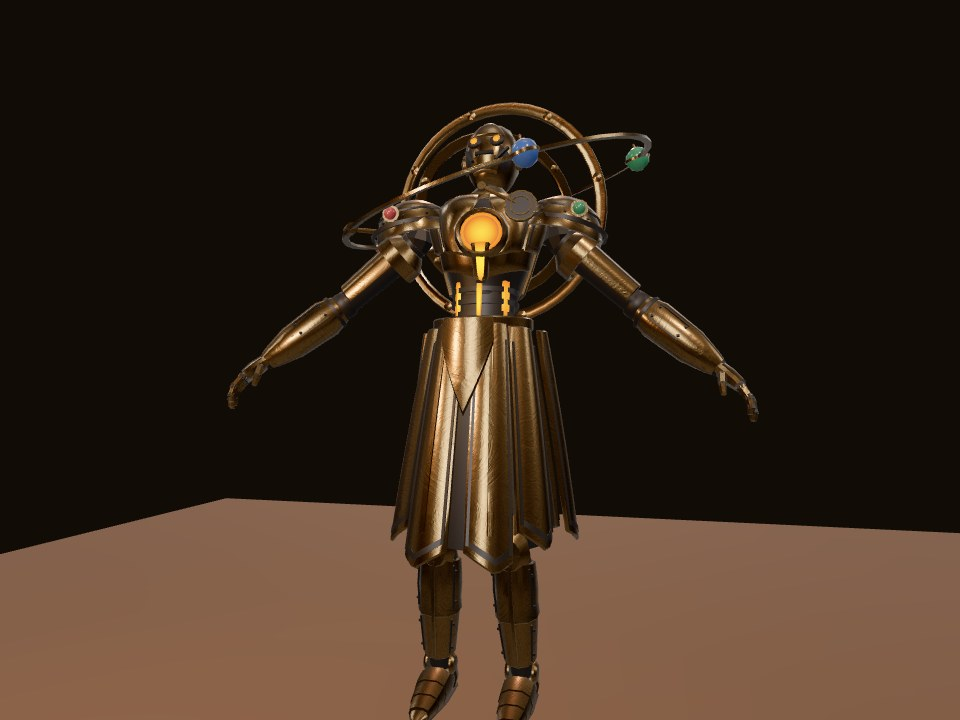
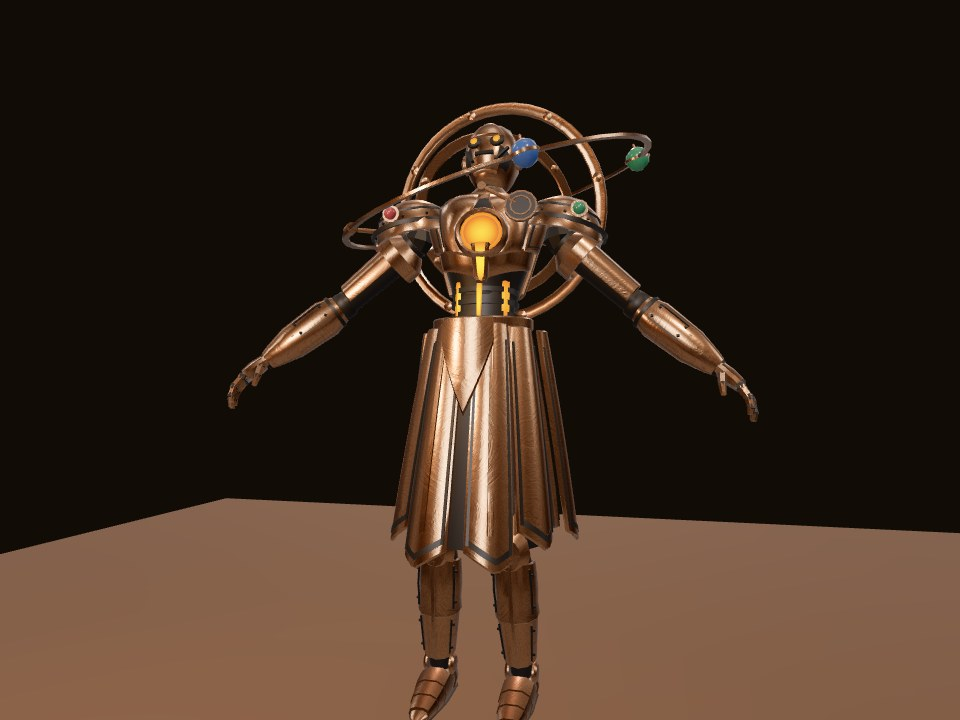
Re-aim the Warden tint warm and keep brightness under the freeze rime
Warden brass tint becomes [0.8, 0.55, 0.75] (body median 101,66,44 against the concept's 101,68,49), and tints now apply to factor-only slots by cloning the GLB material. The freeze rime is luminance-preserving: base lerps toward an ice hue scaled to its own luma, so dark slots stay dark and cool instead of turning silver. Re-recorded staging shots and hashes.

Changed region(s): [[0.2188, 0.1222, 0.7812, 1.0]]

diff --git a/src/enemies/enemy-asset.ts b/src/enemies/enemy-asset.ts
@@ -53,9 +53,9 @@ export interface EnemyMaterialSlot {
   tileMeters?: number;
   normalScale?: number;
   /**
-   * Linear-RGB multiplier (each component 0..1) on the bound clone of the shared set's `color`, so
-   * one enemy can pull the shared brass toward its concept without touching the set other enemies
-   * and the rooms share. Absent: the set's colour unchanged.
+   * Linear-RGB multiplier (each component 0..1) on a bound clone's `color`: the shared set's
+   * material for a set slot, the GLB's own factor material for a factor-only slot. The shared set
+   * and the GLB source are never mutated. Absent: the colour unchanged.
    */
   tint?: [number, number, number];
 }
@@ -135,9 +135,31 @@ function cullSphere(manifest: EnemyManifest): THREE.Sphere {
   return new THREE.Sphere(new THREE.Vector3(0, maxY / 2, 0), reach * 1.15);
 }
 
-/** Pale rime tint the plates take on while frozen, and how far toward it they move. */
-const RIME = new THREE.Color('#cfd8dc');
+/**
+ * Ice hue the plates take on while frozen, and how far toward it they move. Each material moves
+ * toward the rime hue at its own luminance, so a frozen plate cools without lifting: a fixed pale
+ * target would turn dark gunmetal silver. The hue is a strong ice blue: a near-grey rime lifts green
+ * at fixed luminance and pushes brass toward yellow.
+ */
+const RIME = new THREE.Color('#aab7ff');
 const RIME_MIX = 0.22;
+const LUMA = [0.2126, 0.7152, 0.0722] as const;
+const luma = (c: THREE.Color): number => c.r * LUMA[0] + c.g * LUMA[1] + c.b * LUMA[2];
+/** The rime hue at unit luminance, its chroma (distance from grey) scaled by RIME_CHROMA. */
+const RIME_CHROMA = 2.3;
+const RIME_UNIT = new THREE.Color().setRGB(
+  ...(RIME.toArray().map((c) => 1 + RIME_CHROMA * (c / luma(RIME) - 1)) as [
+    number,
+    number,
+    number,
+  ]),
+  THREE.LinearSRGBColorSpace,
+);
+
+/** The frozen colour of `base`: a {@link RIME_MIX} step toward the rime hue at `base`'s own luminance. */
+export function rimeColor(base: THREE.Color, out = new THREE.Color()): THREE.Color {
+  return out.copy(base).lerp(RIME_UNIT.clone().multiplyScalar(luma(base)), RIME_MIX);
+}
 const RIME_GLOW = 0.3;
 const HIT_FLASH = 2.5;
 const FLASH_DECAY = 6;
@@ -237,14 +259,20 @@ export async function parseEnemyAsset(
     if (cached) return cached;
     const slot = manifest.materialSlots[source.name];
     const shared = slot?.set ? set?.materials.get(slot.set) : undefined;
+    const tint = slot?.tint
+      ? new THREE.Color().setRGB(...slot.tint, THREE.LinearSRGBColorSpace)
+      : null;
     let material: THREE.Material = source;
     if (shared) {
       const clone = shared.clone();
       const s = slot?.normalScale ?? 1;
       clone.normalScale.set(s, s);
-      if (slot?.tint)
-        clone.color.multiply(new THREE.Color().setRGB(...slot.tint, THREE.LinearSRGBColorSpace));
+      if (tint) clone.color.multiply(tint);
       clone.name = source.name;
+      material = clone;
+    } else if (tint && source instanceof THREE.MeshStandardMaterial) {
+      const clone = source.clone();
+      clone.color.multiply(tint);
       material = clone;
     }
     bound.set(source, material);
@@ -678,8 +706,8 @@ export class EnemyActor {
     this.frozenFlag = on;
     for (const m of this.materials) {
       if (m.glow) continue;
-      m.material.color.copy(m.color);
-      if (on) m.material.color.lerp(RIME, RIME_MIX);
+      if (on) rimeColor(m.color, m.material.color);
+      else m.material.color.copy(m.color);
     }
     this.applyGlow();
   }

diff --git a/tests/enemy-asset-loader.test.ts b/tests/enemy-asset-loader.test.ts
@@ -9,6 +9,7 @@ import {
   loadEnemyAssets,
   parseEnemyAsset,
   parseEnemyManifest,
+  rimeColor,
 } from '../src/enemies/enemy-asset.ts';
 import type { PbrSet } from '../src/world/materials.ts';
 
@@ -221,6 +222,57 @@ describe('per-slot tint on the shared brass sets', () => {
     expectColour(slotColour(plain.template, 'brass-polished'), SHARED);
     tinted.dispose();
     plain.dispose();
+  });
+
+  it('tints a factor-only slot on a clone of the GLB material, leaving the source untouched', async () => {
+    const raw = JSON.parse(sentryManifest);
+    raw.materialSlots.gunmetal.tint = [0.5, 0.25, 1];
+    const tinted = await parseEnemyAsset(bytes(), parseEnemyManifest(raw, 'cog-sentry'), null);
+    const plain = await parseEnemyAsset(bytes(), sentryWith(), null);
+    const base = slotColour(plain.template, 'gunmetal');
+    expect(base.r + base.g + base.b).toBeGreaterThan(0);
+    const want = base.clone().multiply(linear(0.5, 0.25, 1));
+    expectColour(slotColour(tinted.template, 'gunmetal'), want);
+    // A second parse of the same bytes gets the untinted factor: nothing shared was mutated.
+    const again = await parseEnemyAsset(bytes(), sentryWith(), null);
+    expectColour(slotColour(again.template, 'gunmetal'), base);
+    const actor = tinted.spawn();
+    expectColour(slotColour(actor.object, 'gunmetal'), want);
+    actor.dispose();
+    for (const a of [tinted, plain, again]) a.dispose();
+  });
+
+  it('rimes at the material luminance: dark stays dark, bright cools without lifting', () => {
+    const lum = (c: THREE.Color) => 0.2126 * c.r + 0.7152 * c.g + 0.0722 * c.b;
+    const gunmetal = linear(0.0273, 0.0232, 0.0232);
+    const dark = rimeColor(gunmetal);
+    expect(lum(dark)).toBeCloseTo(lum(gunmetal), 6);
+    expect(Math.max(dark.r, dark.g, dark.b)).toBeLessThan(0.04);
+    for (const bright of [linear(1, 1, 1), linear(0.8, 0.55, 0.75), linear(0.73, 0.53, 0.14)]) {
+      const cold = rimeColor(bright);
+      expect(lum(cold)).toBeCloseTo(lum(bright), 6);
+      // Frost-cooled: blue gains on red by at least 40 % (in-room B/R +0.09..+0.18 on warm metal).
+      expect(cold.b / cold.r).toBeGreaterThan((bright.b / bright.r) * 1.4);
+    }
+    // Brass (the GLB fallback factor) cools toward red-grey and blue, never up toward yellow.
+    const brass = linear(0.73, 0.53, 0.14);
+    const hue = (c: THREE.Color) => c.getHSL({ h: 0, s: 0, l: 0 }, THREE.LinearSRGBColorSpace).h;
+    expect(hue(rimeColor(brass))).toBeLessThan(hue(brass));
+  });
+
+  it('freeze rimes a clone of the bound colour and thaw restores it exactly', async () => {
+    const asset = await parseEnemyAsset(bytes(), sentryWith([0.8, 0.55, 0.75]), fakeSet());
+    const actor = asset.spawn();
+    const base = slotColour(actor.object, 'brass-polished').clone();
+    const gm = slotColour(actor.object, 'gunmetal').clone();
+    actor.freeze();
+    expectColour(slotColour(actor.object, 'brass-polished'), rimeColor(base));
+    expectColour(slotColour(actor.object, 'gunmetal'), rimeColor(gm));
+    actor.unfreeze();
+    expect(slotColour(actor.object, 'brass-polished').equals(base)).toBe(true);
+    expect(slotColour(actor.object, 'gunmetal').equals(gm)).toBe(true);
+    actor.dispose();
+    asset.dispose();
   });
 
   it('rejects a tint that is not three numbers in 0..1', () => {

diff --git a/assets-source/enemies/orrery-warden/engine-proof.ts b/assets-source/enemies/orrery-warden/engine-proof.ts
@@ -63,6 +63,10 @@ export async function mountAutomatonProof(id: string, width: number, height: num
         clone.color.multiply(new THREE.Color().setRGB(...slot.tint, THREE.LinearSRGBColorSpace));
       clone.name = source.name;
       material = clone;
+    } else if (slot?.tint && source instanceof THREE.MeshStandardMaterial) {
+      const clone = source.clone();
+      clone.color.multiply(new THREE.Color().setRGB(...slot.tint, THREE.LinearSRGBColorSpace));
+      material = clone;
     }
     bound.set(source, material);
     return material;

diff --git a/scripts/assets/asset-check.py b/scripts/assets/asset-check.py
@@ -313,7 +313,7 @@ ENEMY_META = {
     "bellows-golem": {**_P5_META, "materials_used": "approved P4-T3 brass-polished set bound by slot name at runtime; golem-case (walnut, pleats from COLOR_0), golem-metal (gunmetal and emerald from COLOR_0) and golem-glow are factor-only"},
     "orrery-warden": {**_P5_META, "reference_note": _P5_META["reference_note"].replace("P5-T3", "P5-T4"),
                       "materials_used": "approved P4-T3 brass-polished set bound by slot name at runtime and tinted by the manifest slot tint "
-                                        "[0.33, 0.3, 0.3] (linear multiplier); gunmetal, warden-glow and warden-jewel "
+                                        "[0.8, 0.55, 0.75] (linear multiplier); gunmetal, warden-glow and warden-jewel "
                                         "(ruby, sapphire and emerald from COLOR_0) are factor-only"},
     GUARDIAN: {**_P5_META, "reference_note": _P5_META["reference_note"].replace("P5-T3", "P5-T4"),
                "materials_used": "approved P4-T3 brass-polished set bound by slot name at runtime; escapement-case (mahogany, dark iron, "

diff --git a/scripts/assets/build-orrery-warden.py b/scripts/assets/build-orrery-warden.py
@@ -75,7 +75,7 @@ BP, GM, GL, JW = range(4)
 SETS = {BRASS: 0.35}  # shared set -> normal scale (as on the combat table)
 # Linear-RGB multiplier on the bound shared set's colour (manifest slot `tint`, enemy-asset.ts bind()):
 # pulls the shared light brass toward the concept's dark bronze; measured on the engine glow-close shot.
-TINTS = {BRASS: [0.33, 0.3, 0.3]}
+TINTS = {BRASS: [0.8, 0.55, 0.75]}
 TILE_METERS = 0.5  # the brass set tiles at 0.5 m (public/assets/materials/materials.json)
 FACTORS = {  # sRGB base, roughness, metallic: the GLB look, and the fallback when the set fails
     BRASS: ((0xDE, 0xC1, 0x6A), 0.3, 1.0),
